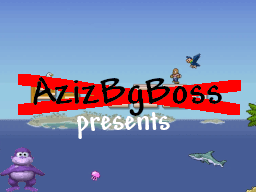
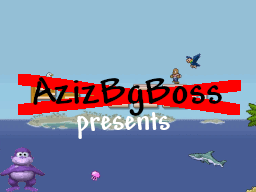
more intros

diff --git a/source/vars.h b/source/vars.h
@@ -469,16 +469,16 @@ const char *musics[] = {
 
 const IntroData mainscreens[] = {
 	{mainscreenbgTiles, mainscreenbgMap, mainscreenbgPal, mainscreenbgTilesLen, mainscreenbgMapLen, mainscreenbgPalLen},
-	{mainscreenbg2Tiles, mainscreenbg2Map, mainscreenbg2Pal, mainscreenbg2TilesLen, mainscreenbg2MapLen, mainscreenbg2PalLen},
+	//{mainscreenbg2Tiles, mainscreenbg2Map, mainscreenbg2Pal, mainscreenbg2TilesLen, mainscreenbg2MapLen, mainscreenbg2PalLen},
 };
 
 const IntroData intros[] = {
 	{introTiles, introMap, introPal, introTilesLen, introMapLen, introPalLen, 0, 0},
-	{intro2Tiles, intro2Map, intro2Pal, intro2TilesLen, intro2MapLen, intro2PalLen, 1, 1},
-	{intro3Tiles, intro3Map, intro3Pal, intro3TilesLen, intro3MapLen, intro3PalLen, 0, 0},
+	{intro2Tiles, intro2Map, intro2Pal, intro2TilesLen, intro2MapLen, intro2PalLen, 1, 0}, // mainscreen should be 1
+	//{intro3Tiles, intro3Map, intro3Pal, intro3TilesLen, intro3MapLen, intro3PalLen, 0, 0},
 	{intro4Tiles, intro4Map, intro4Pal, intro4TilesLen, intro4MapLen, intro4PalLen, 0, 0},
 	{intro5Tiles, intro5Map, intro5Pal, intro5TilesLen, intro5MapLen, intro5PalLen, 0, 0},
-	{intro6Tiles, intro6Map, intro6Pal, intro6TilesLen, intro6MapLen, intro6PalLen, 0, 0},
+	//{intro6Tiles, intro6Map, intro6Pal, intro6TilesLen, intro6MapLen, intro6PalLen, 0, 0},
 	{intro7Tiles, intro7Map, intro7Pal, intro7TilesLen, intro7MapLen, intro7PalLen, 0, 0},
 	{intro8Tiles, intro8Map, intro8Pal, intro8TilesLen, intro8MapLen, intro8PalLen, 0, 0},
 };

diff --git a/source/defs.h b/source/defs.h
@@ -30,14 +30,14 @@
 #include "items.h"
 #include "intro.h"
 #include "intro2.h"
-#include "intro3.h"
+//#include "intro3.h"
 #include "intro4.h"
 #include "intro5.h"
-#include "intro6.h"
+//#include "intro6.h"
 #include "intro7.h"
 #include "intro8.h"
 #include "mainscreenbg.h"
-#include "mainscreenbg2.h"
+//#include "mainscreenbg2.h"
 #include "mainscreenui.h"
 #include "particles.h"
 

diff --git a/README.md b/README.md
@@ -82,7 +82,7 @@ Initial commit with basic project structure.
 - Add sound effects. ***(done)***
 
 ### Version 0.2 (In progress, releasing soon):
-- Add more music and intros.
+- Add more music and intros. ***(done: I didn't add much intros because I'M NOT GONNA MIGRATE TO NITROFS AGAIN AGHHH)***
 - Add ability to delete worlds and characters. ***(done)***
 - Add acorns to keep the world sustainable if needed. ***(done)***
 - Add swinging animation. ***(done)***